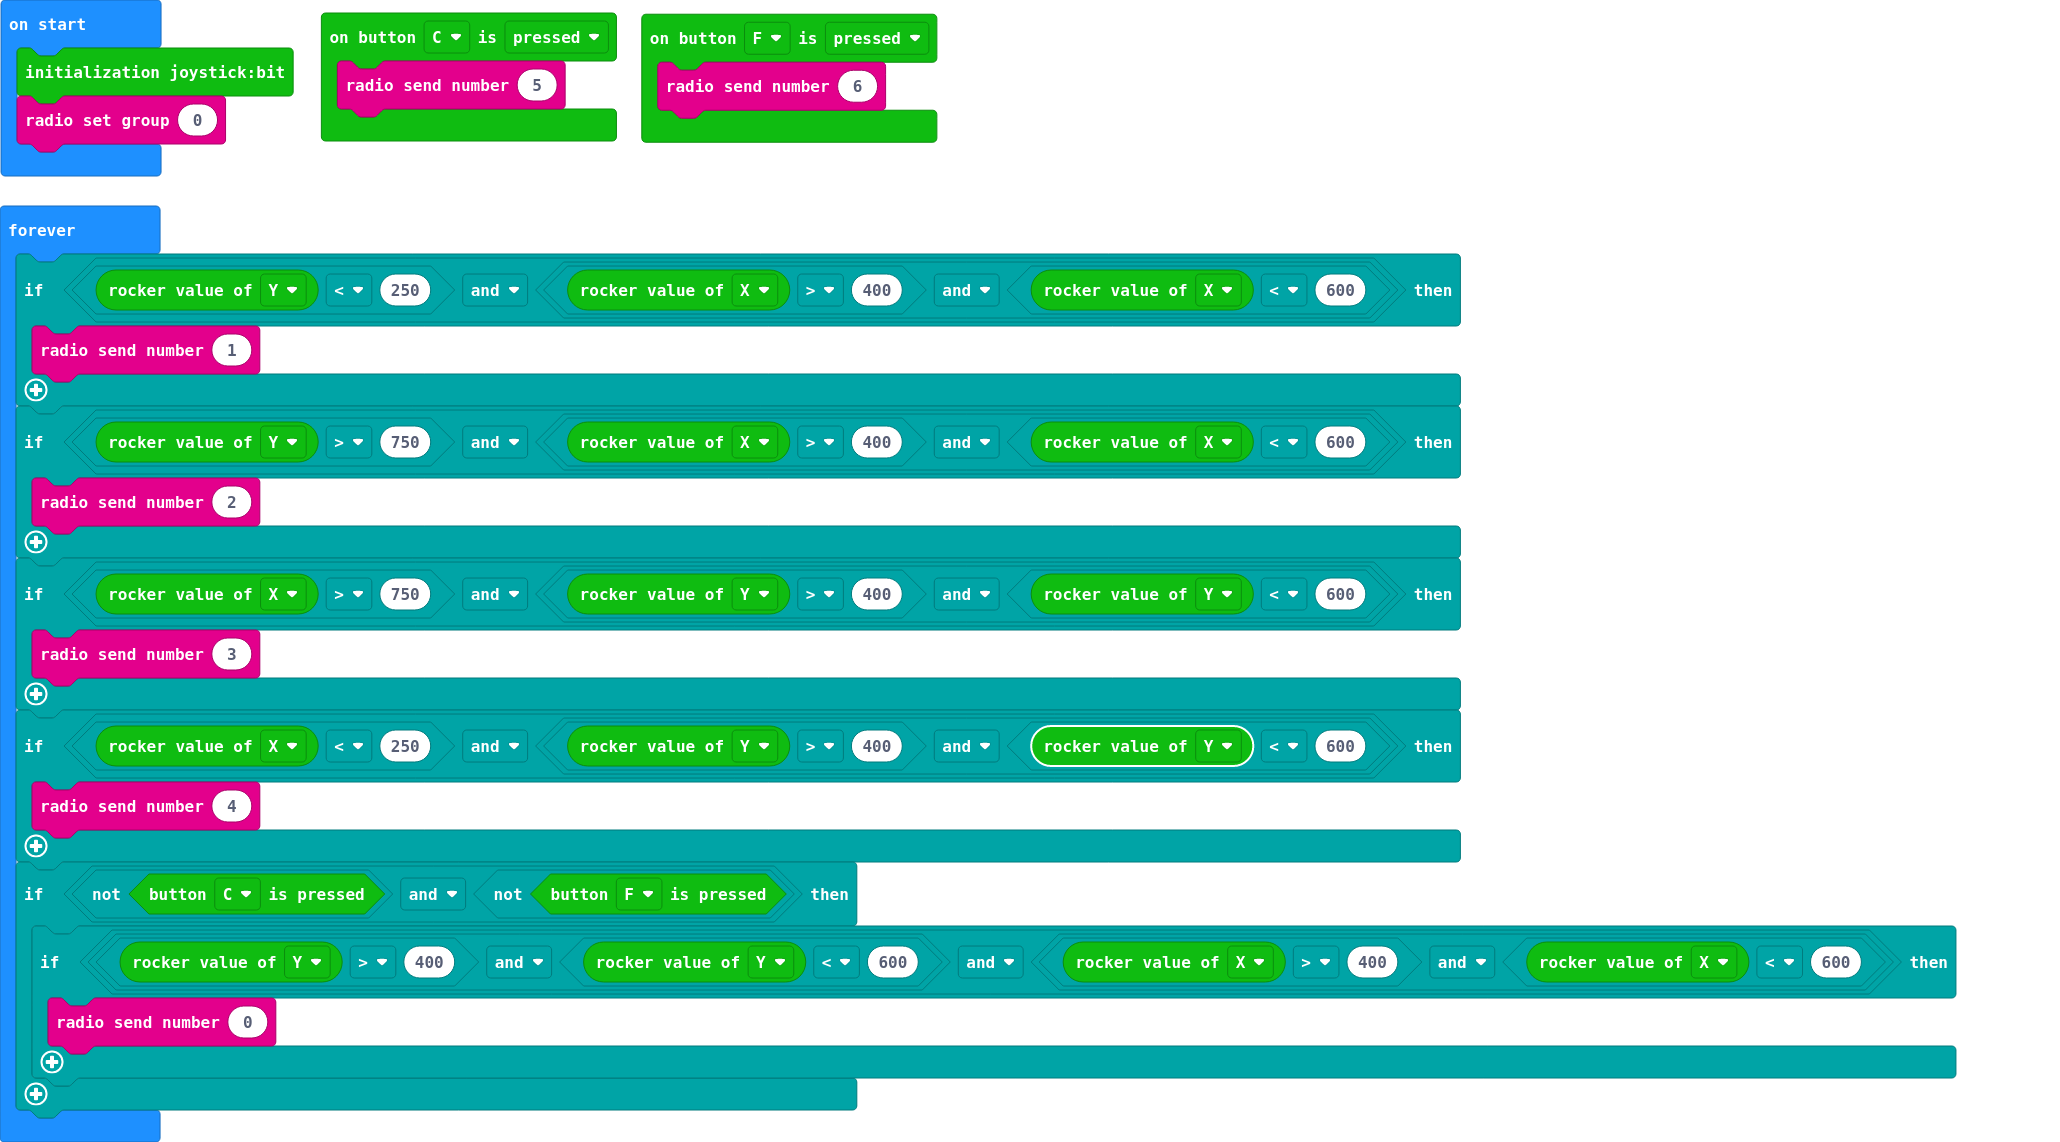
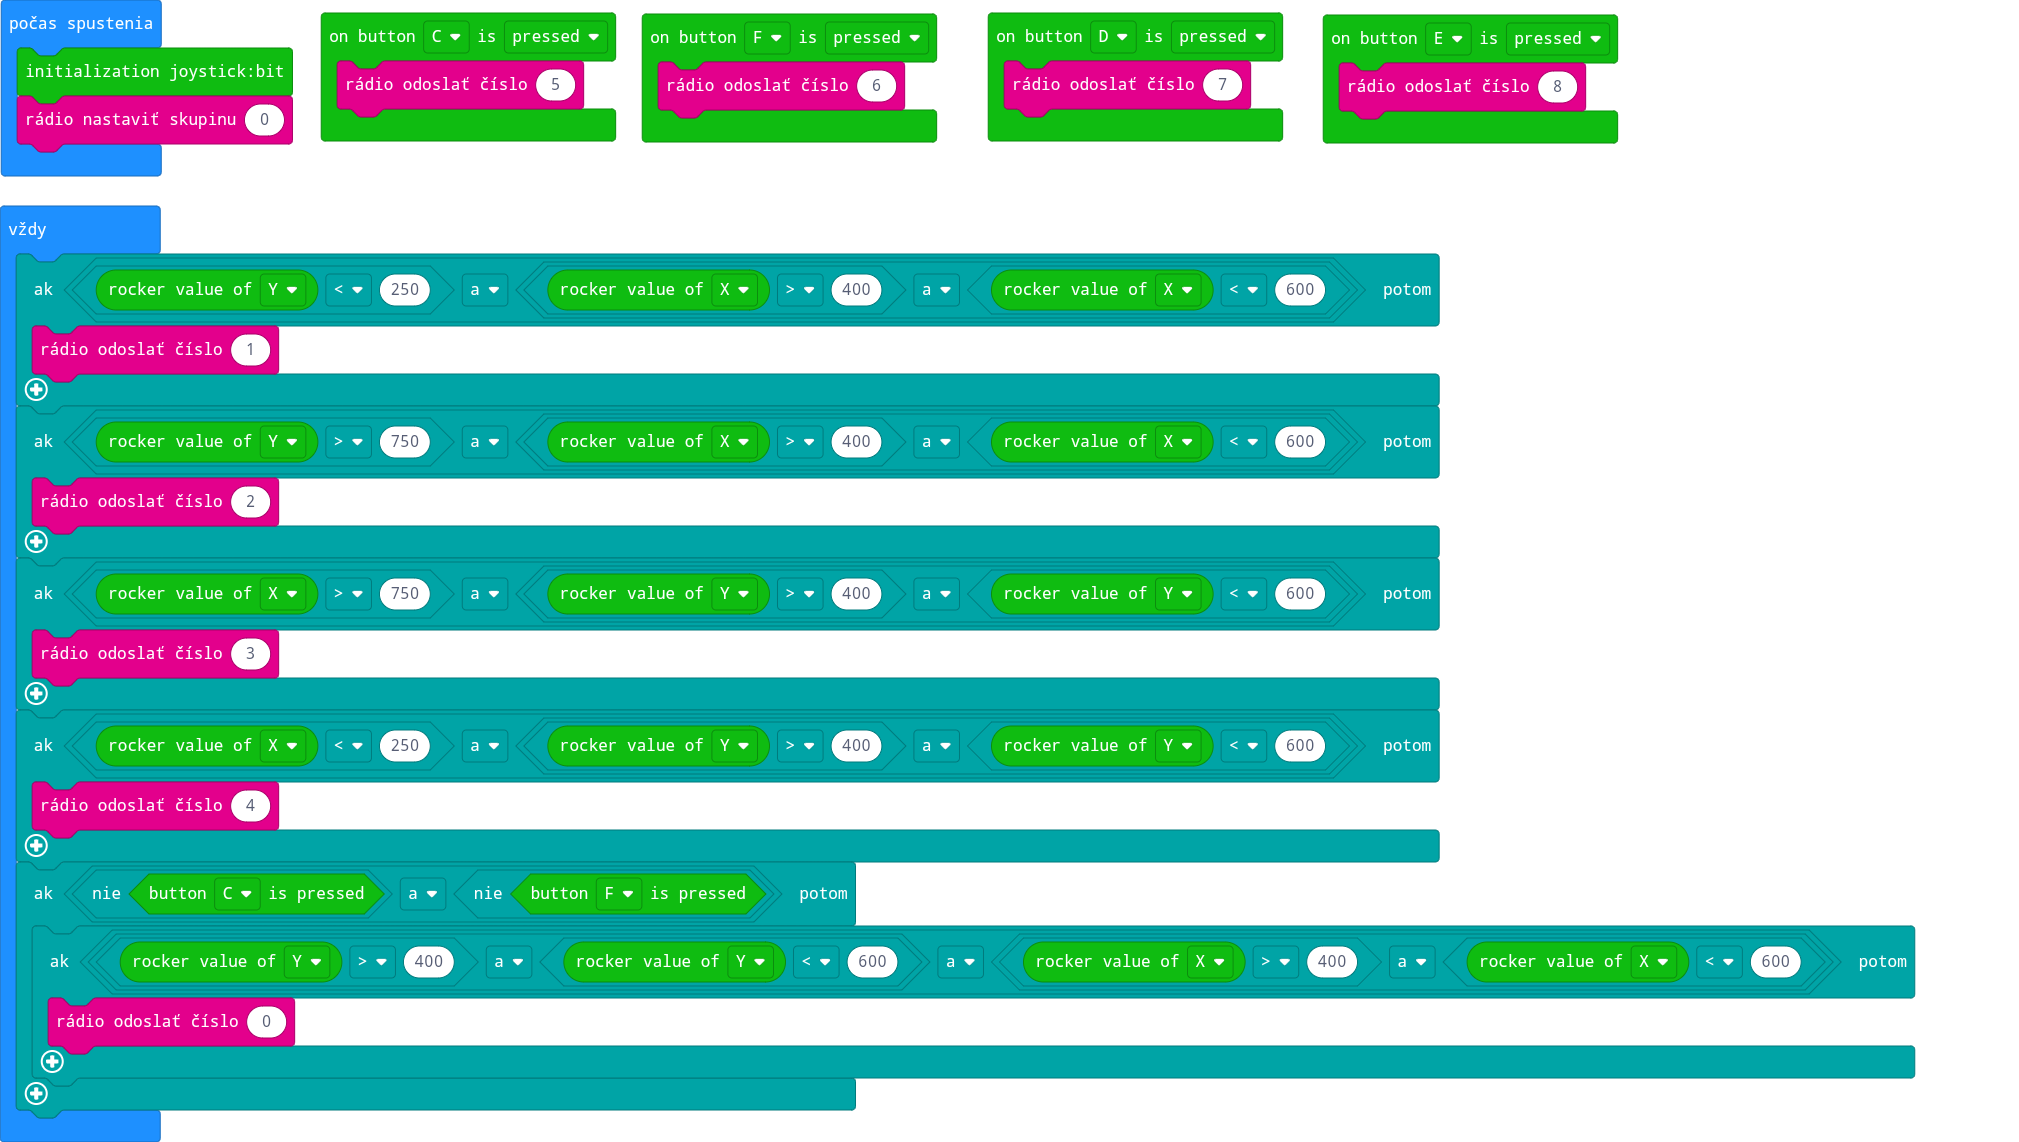
Aktualizovať pxt.json, main.blocks, main.ts

diff --git a/main.ts b/main.ts
@@ -1,5 +1,11 @@
+joystickbit.onButtonEvent(joystickbit.JoystickBitPin.P14, joystickbit.ButtonType.down, function () {
+    radio.sendNumber(8)
+})
 joystickbit.onButtonEvent(joystickbit.JoystickBitPin.P15, joystickbit.ButtonType.down, function () {
     radio.sendNumber(6)
+})
+joystickbit.onButtonEvent(joystickbit.JoystickBitPin.P13, joystickbit.ButtonType.down, function () {
+    radio.sendNumber(7)
 })
 joystickbit.onButtonEvent(joystickbit.JoystickBitPin.P12, joystickbit.ButtonType.down, function () {
     radio.sendNumber(5)
